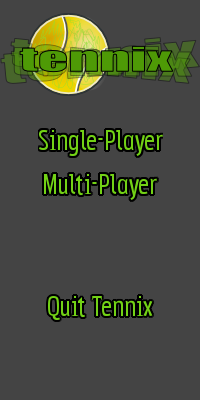
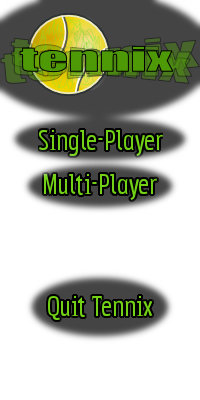
Help text scroller, font opacity, endgame controls
Do not process input events (human or AI) when the
GameState of the match has set the "is_over" flag.

When loading graphic resources, use black color key
for font images to support opacity-based blitting.

Add font_draw_string_alpha() to draw fonts w/ opacity
and add font_draw_string() macro (opacity=255).

Add a neat, opacity-based text scroller to the main
menu and provide input help text (keyboard controls).

diff --git a/tennix.c b/tennix.c
@@ -32,6 +32,18 @@
 
 SDL_Surface *screen;
 
+static const char* help_text[] = {
+    "keyboard controls:",
+    "player 1 moves with <w>, <s> and <d>",
+    "player 2 moves with <o>, <l> and <k>",
+    "switch court in game with <c>",
+};
+
+/* Number of lines in help_text */
+#define HELP_LINES 4
+/* Height (in pixels) of the help text scroller */
+#define HELP_PHASE 50
+
 int main( int argc, char** argv) {
     int i = 0;
     int mx, my;
@@ -44,6 +56,7 @@ int main( int argc, char** argv) {
     int highlight_y = 0;
     char copyright_line[100];
     int copyright_line_width;
+    int help, help_line_widths[HELP_LINES], help_line_height, help_offset;
 
     Point elektrons[ELEKTRONS];
     int el;
@@ -92,6 +105,10 @@ int main( int argc, char** argv) {
     init_graphics( datadir);
 
     copyright_line_width = font_get_string_width( GR_DKC2_FONT, copyright_line);
+    for( help=0; help<HELP_LINES; help++) {
+        help_line_widths[help] = font_get_string_width( GR_SMALLISH_FONT, help_text[help]);
+    }
+    help_line_height = get_image_height( GR_SMALLISH_FONT);
    
     while( 1) {
         SDL_PollEvent( &e);
@@ -171,6 +188,15 @@ int main( int argc, char** argv) {
 
         show_image( GR_MENU, WIDTH/2-get_image_width( GR_MENU)/2, 0, 255);
         font_draw_string( GR_DKC2_FONT, copyright_line, (WIDTH-copyright_line_width)/2, HEIGHT-35, i, ((i/150)%ANIMATION_COUNT));
+        for( help=0; help<HELP_LINES; help++) {
+            help_offset = (help_line_height*(HELP_LINES-help)+i/2)%HELP_PHASE;
+            font_draw_string_alpha( GR_SMALLISH_FONT, help_text[help],
+                                    (WIDTH-help_line_widths[help])/2,
+                                    HEIGHT/2+30-help_offset,
+                                    i, ANIMATION_NONE,
+                                    255.0*fabsf( sinf( help_offset/((float)HELP_PHASE)*M_PI))
+                                  );
+        }
         show_sprite( GR_RACKET, ((mb&SDL_BUTTON( SDL_BUTTON_LEFT))>0)+(((mb&SDL_BUTTON( SDL_BUTTON_RIGHT))>0)*2), 4, mx, my, 255);
         updatescr();
 

diff --git a/graphics.c b/graphics.c
@@ -73,7 +73,14 @@ void init_graphics( const char *data_dir) {
             continue;
         }
 
-        data = SDL_DisplayFormatAlpha( tmp);
+        if( GRAPHICS_IS_FONT(i)) {
+            /* Convert to RGB w/ colorkey=black for opacity support */
+            SDL_SetColorKey( tmp, SDL_SRCCOLORKEY | SDL_RLEACCEL, SDL_MapRGB( tmp->format, 0, 0, 0));
+            data = SDL_ConvertSurface( tmp, screen->format, SDL_SRCCOLORKEY | SDL_RLEACCEL);
+        } else {
+            /* Convert to RGBA for alpha channel from PNG */
+            data = SDL_DisplayFormatAlpha( tmp);
+        }
         SDL_FreeSurface( tmp);
 
         if( !data) {
@@ -312,11 +319,17 @@ int font_draw_char( unsigned int id, char ch, int x_offset, int y_offset) {
     return src.w;
 }
 
-void font_draw_string( unsigned int id, char* s, int x_offset, int y_offset, int start, int animation) {
+void font_draw_string_alpha( unsigned int id, const char* s, int x_offset, int y_offset, int start, int animation, int opacity) {
     int y = y_offset;
     int x = x_offset;
     int i;
     float xw = 0.0, xw_diff;
+    SDL_Surface *bitmap;
+
+    if( id > GR_COUNT) return;
+
+    bitmap = images[id].data;
+    SDL_SetAlpha( bitmap, SDL_SRCALPHA | SDL_RLEACCEL, opacity);
 
     if( animation & ANIMATION_BUNGEE) {
         xw = (25.0*sinf( start/10.0));
@@ -347,7 +360,7 @@ void font_draw_string( unsigned int id, char* s, int x_offset, int y_offset, int
     }
 }
 
-int font_get_string_width( unsigned int id, char* s) {
+int font_get_string_width( unsigned int id, const char* s) {
     int w = 0, i;
 
     for( i=0; i<strlen(s); i++) {

diff --git a/graphics.h b/graphics.h
@@ -57,6 +57,7 @@ enum {
     GR_COUNT
 };
 
+#define GRAPHICS_IS_FONT(id) ((id == GR_SMALLISH_FONT) || (id == GR_DKC2_FONT))
 #define GR_CTT_FIRST GR_CTT_HARD
 #define GR_CTT_LAST GR_CTT_GRASS
 
@@ -88,8 +89,9 @@ int is_fading();
 
 int font_get_metrics( unsigned int id, char ch, int* xp, int* wp);
 int font_draw_char( unsigned int id, char ch, int x_offset, int y_offset);
-void font_draw_string( unsigned int id, char* s, int x_offset, int y_offset, int start, int animation);
-int font_get_string_width( unsigned int id, char* s);
+void font_draw_string_alpha( unsigned int id, const char* s, int x_offset, int y_offset, int start, int animation, int opacity);
+#define font_draw_string(id,s,x_offset,y_offset,start,animation) font_draw_string_alpha(id,s,x_offset,y_offset,start,animation,255)
+int font_get_string_width( unsigned int id, const char* s);
 
 void draw_line_faded( int x1, int y1, int x2, int y2, int r, int g, int b, int r2, int g2, int b2);
 #define draw_line(x1,y1,x2,y2,r,g,b) draw_line_faded(x1,y1,x2,y2,r,g,b,r,g,b)

diff --git a/game.c b/game.c
@@ -203,7 +203,7 @@ bool step( GameState* s) {
         }
     }
 
-    if( !is_fading()) {
+    if( !is_fading() && !s->is_over) {
         if( s->player1.type == PLAYER_TYPE_HUMAN) {
            input_human( &s->player1, keys['w'], keys['s'], keys['d']);
         } else {
